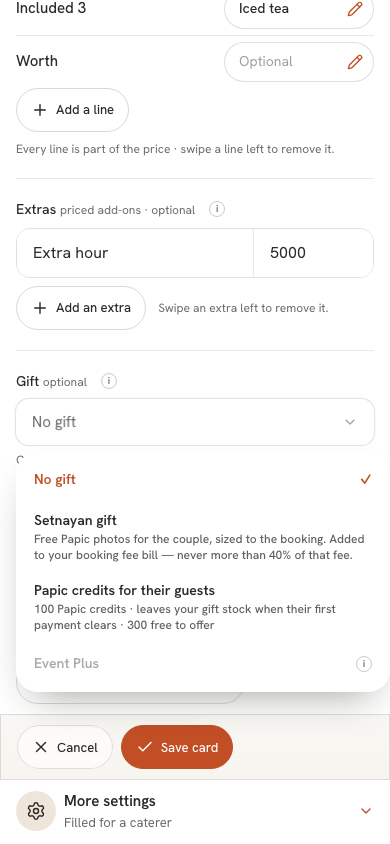
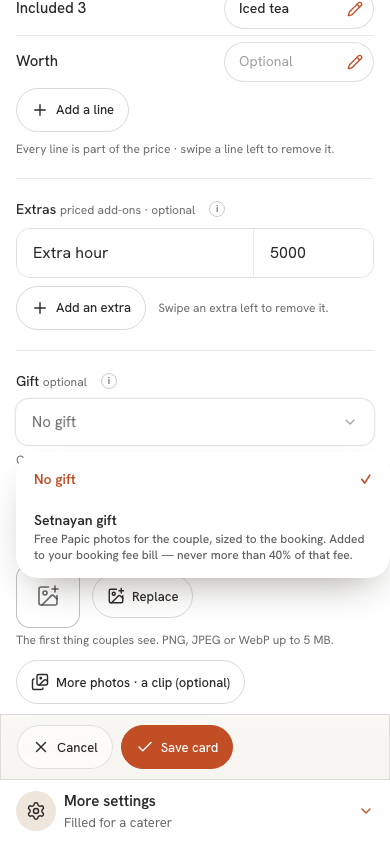
fix(card-maker): keep shop gift packs out of the card's Gift dropdown until their delivery is ruled
A pack picked on a card would save and then reach neither the quote nor any
couple-facing card: a choice that renders as success and does nothing. Until
the owner rules on pack delivery (open on bundle PR #7367 too), one switch,
SHOP_PACK_GIFTS_DELIVER = false in lib/gift-pick.ts:
- the dropdown lists No gift and Setnayan gift only;
- the info tip says nothing about own gifts;
- the save refuses a pack.
The gift_pack_code column, its CHECKs and the db test are unchanged.

Guard: the-card-gift-is-one-dropdown test 7 (packs hidden while false, listed
when true; save refuses a pack). Sabotage: pack loop ignoring the switch -> red.
Proof: gift menu reshot (two options); the pack-picked and pack-on-preview
shots removed.

Changed region(s): [[0.0615, 0.6777, 0.9538, 0.8626]]

diff --git a/apps/web/lib/the-card-gift-is-one-dropdown.test.ts b/apps/web/lib/the-card-gift-is-one-dropdown.test.ts
@@ -15,10 +15,14 @@
  *   4 · the save reads the pack only when the row was drawn (`gift_pack_present`), so a screen without the row can
  *       never clear a card's pack;
  *   5 · the first page's order and that none of its fields sit inside More settings;
- *   6 · the couple's line for a pack carries no count (the card face's rule).
+ *   6 · the couple's line for a pack carries no count (the card face's rule);
+ *   7 · 🚧 `SHOP_PACK_GIFTS_DELIVER` (controller, 7 Nov): while a picked pack would reach no quote and no couple-facing
+ *       card, the dropdown lists NO pack, the ⓘ says nothing about own gifts and the save refuses a pack — and with
+ *       the switch on, the packs are listed again. Tests 1 and 6 ask for the delivering menu explicitly.
  *
  * Sabotage, 2026-11-07: (a) `giftMenu` put Setnayan gift first → test 1 red; (b) the maker's `gift_pack_present`
  * hidden input removed → test 3 red. Both restored green.
+ * Sabotage, 2026-11-07 (gate): the pack loop ignoring `deliver` (`for (const p of packs ?? [])`) → test 7 red.
  */
 import test from 'node:test';
 import assert from 'node:assert/strict';
@@ -31,8 +35,10 @@ import {
   GIFT_SETNAYAN,
   coupleCardPackLine,
   giftColumns,
+  SHOP_PACK_GIFTS_DELIVER,
   giftMenu,
   giftPickOf,
+  giftTip,
 } from '@/lib/gift-pick';
 import type { ShopGiftPack } from '@/lib/shop-gifts';
 
@@ -47,16 +53,16 @@ const PACKS: ShopGiftPack[] = [
 ];
 
 test('1 · the dropdown: No gift · Setnayan gift · the shop’s packs, a short pack listed with "buy first"', () => {
-  const menu = giftMenu(PACKS, { papic: 100, event_plus: 0, event_pro: 0 });
+  const menu = giftMenu(PACKS, { papic: 100, event_plus: 0, event_pro: 0 }, GIFT_NONE, true);
   assert.deepEqual(menu.map((o) => o.key), [GIFT_NONE, GIFT_SETNAYAN, 'PAPIC_GUEST', 'EVENT_PLUS']);
   assert.equal(menu[0]!.label, 'No gift');
   assert.equal(menu[1]!.label, 'Setnayan gift');
   assert.equal(menu[2]!.disabledNote, undefined, 'a pack the stock covers must be pickable');
   assert.equal(menu[3]!.disabledNote, 'Not enough in your stock · buy first');
   // Unreadable stock is said as unreadable, never as empty.
-  for (const o of giftMenu(PACKS, null).slice(2)) assert.equal(o.disabledNote, 'Couldn’t read your gift stock right now');
+  for (const o of giftMenu(PACKS, null, GIFT_NONE, true).slice(2)) assert.equal(o.disabledNote, 'Couldn’t read your gift stock right now');
   // A saved card's own pack stays pickable whatever the stock says — opening it never strands its gift.
-  assert.equal(giftMenu(PACKS, { papic: 0, event_plus: 0, event_pro: 0 }, 'EVENT_PLUS')[3]!.disabledNote, undefined);
+  assert.equal(giftMenu(PACKS, { papic: 0, event_plus: 0, event_pro: 0 }, 'EVENT_PLUS', true)[3]!.disabledNote, undefined);
   // Unread catalogue: only the two answers that need no catalogue.
   assert.deepEqual(giftMenu(null, null).map((o) => o.key), [GIFT_NONE, GIFT_SETNAYAN]);
 });
@@ -112,4 +118,24 @@ test('6 · the couple’s line for a pack names the kind, never a count', () => 
   assert.equal(coupleCardPackLine('EVENT_PLUS', 'Saysay Studio'), 'Gift from Saysay Studio 🎁 · Event Plus');
   assert.ok(!/\d/.test(coupleCardPackLine('PAPIC_GUEST_500', 'Saysay') ?? ''), 'a count reached the card');
   assert.equal(coupleCardPackLine(null, 'Saysay'), null);
+});
+
+test('7 · 🚧 shop packs are not offered while they reach nobody — and are offered once the switch is on', () => {
+  const free = { papic: 1000, event_plus: 5, event_pro: 5 };
+  const keys = (deliver: boolean) => giftMenu(PACKS, free, GIFT_NONE, deliver).map((o) => o.key);
+  // The default follows the switch: hidden while false, listed while true.
+  const def = giftMenu(PACKS, free).map((o) => o.key);
+  if (SHOP_PACK_GIFTS_DELIVER) {
+    assert.deepEqual(def, [GIFT_NONE, GIFT_SETNAYAN, 'PAPIC_GUEST', 'EVENT_PLUS']);
+  } else {
+    assert.deepEqual(def, [GIFT_NONE, GIFT_SETNAYAN], 'a pack is offered that would reach no quote and no couple');
+    assert.equal(giftTip('card').length, 1, 'the ⓘ promises own gifts that are not offered');
+  }
+  assert.deepEqual(keys(false), [GIFT_NONE, GIFT_SETNAYAN]);
+  assert.deepEqual(keys(true), [GIFT_NONE, GIFT_SETNAYAN, 'PAPIC_GUEST', 'EVENT_PLUS']);
+  assert.ok(giftTip('card', true).length > 1);
+  // The save refuses a pack while the switch is off (a crafted post cannot save a gift that reaches nobody).
+  assert.match(read(ACTIONS), /if \(code && !SHOP_PACK_GIFTS_DELIVER\) return back\(/);
+  // Today's value is the ruling-in-waiting: off.
+  assert.equal(SHOP_PACK_GIFTS_DELIVER, false, 'flip only with the delivery built and the owner ruling recorded');
 });

diff --git a/apps/web/lib/gift-pick.ts b/apps/web/lib/gift-pick.ts
@@ -57,18 +57,23 @@ export function giftColumns(gift: GiftPick | null | undefined): GiftColumns | nu
   return shopGiftKindOf(gift) ? { includes_setnayan_gift: false, gift_pack_code: gift } : null;
 }
 
+/** 🚧 Off until the owner rules how a card's own pack reaches the quote and the couple (open, same as bundle PR #7367). */
+export const SHOP_PACK_GIFTS_DELIVER = false;
+
 /** The Setnayan gift's line under the dropdown — the card maker's shipped fold sentence, without the noun. */
 export const SETNAYAN_GIFT_HINT =
   'Free Papic photos for the couple, sized to the booking. Added to your booking fee bill — never more than 40% of that fee.';
 
 /** What the ⓘ beside "Gift" says — the card's shipped words and the shop-gift rulings (DECISION_LOG 2026-11-04 / 05). */
-export function giftTip(host: GiftHost): readonly string[] {
-  return [
+export function giftTip(host: GiftHost, deliver: boolean = SHOP_PACK_GIFTS_DELIVER): readonly string[] {
+  const all = [
     `Setnayan gift — couples who book this get free Papic photos, sized to the booking. It is added to your booking fee bill — never more than 40% of that fee. Your ${host} shows either way.`,
     'Your own gifts — Papic credits, Event Plus or Event Pro from your stock (Shop › Promote › Your gifts · buy first). They leave your stock when the couple’s first payment clears and land on their event.',
     'On one booking your gifts are capped at 40% of its fee; the smallest Papic pack is always allowed.',
     'A second Event Plus on an event that already holds Plus unlocks Event Pro instead.',
   ];
+  // Every line after the first is about the shop's own packs — not said while they are not offered.
+  return deliver ? all : all.slice(0, 1);
 }
 
 /** One choice in the Gift dropdown — the shape `PickMenu` takes (`disabledNote` = listed, not pickable, and why). */
@@ -84,12 +89,14 @@ export function giftMenu(
   packs: readonly ShopGiftPack[] | null,
   free: FreeByKind | null,
   current: GiftPick = GIFT_NONE,
+  deliver: boolean = SHOP_PACK_GIFTS_DELIVER,
 ): GiftOption[] {
   const out: GiftOption[] = [
     { key: GIFT_NONE, label: 'No gift' },
     { key: GIFT_SETNAYAN, label: 'Setnayan gift', hint: SETNAYAN_GIFT_HINT },
   ];
-  for (const p of packs ?? []) {
+  // 🚧 `SHOP_PACK_GIFTS_DELIVER`: no pack row while a picked pack would reach nobody.
+  for (const p of deliver ? (packs ?? []) : []) {
     const have = free ? free[p.kind] : null;
     const enough = have != null && have >= p.credits;
     const off =

diff --git a/apps/web/app/vendor-dashboard/services/actions.ts b/apps/web/app/vendor-dashboard/services/actions.ts
@@ -78,7 +78,7 @@ import {
   toPackageDraft,
 } from '@/lib/service-customization-draft';
 import { savePackage } from '../packages/actions';
-import { giftColumns } from '@/lib/gift-pick';
+import { SHOP_PACK_GIFTS_DELIVER, giftColumns } from '@/lib/gift-pick';
 import { freeByKind, shopGiftKindOf } from '@/lib/shop-gifts';
 import { fetchShopGiftPacks, fetchShopGiftStock } from '@/lib/shop-gifts.server';
 
@@ -1557,6 +1557,8 @@ export async function commitVendorService(formData: FormData) {
     const code = typeof raw === 'string' && raw.length > 0 ? raw : null;
     const cols = giftColumns(code);
     if (code && (!cols || !shopGiftKindOf(code))) return back('That gift can’t be offered on a card.');
+    // 🚧 Not offered yet (see `SHOP_PACK_GIFTS_DELIVER`): a pack would save and reach no quote or couple-facing card.
+    if (code && !SHOP_PACK_GIFTS_DELIVER) return back('Your own gifts can’t be put on a card yet — pick No gift or the Setnayan gift.');
     if (code && fields.includes_setnayan_gift === true) {
       return back('A card gives one gift — pick the Setnayan gift or one of your own, not both.');
     }

diff --git a/changelog.d/claude-card-maker-fix-nov7.md b/changelog.d/claude-card-maker-fix-nov7.md
@@ -5,7 +5,7 @@ Owner, 7 Nov (DECISION_LOG "THE FOUR MAKERS ARE APPROVED — BUILD THEM AS FIXES
 - **One page of fields:** Name (+ Specialties) · Price (basis dropdown + hint · ₱ box · "Price · more") · What's included · Extras · Gift · Photos, in the prototype's order and its one rhythm (label · 48 px box · hint, topics parted by a divider). Price · more, Add-ons, the Setnayan gift and Details moved up from More settings. The rest of More settings (Schedule, Discounts, crew, terms, payment, who it's for, comes with, record, portfolio, live · delete · copy) is shown on the saved card; while a card is made those folds stay mounted but unseen, so every default and copied value still posts.
 - **Pinned row** (the service menu · Preview and ⓘ rounds), **split evenly from 820 up** (fields | "As couples see it"), **thumb row** Cancel (grey) · Create / Save card (terracotta), every button the shipped `ActionButton`; a sheet's closing confirm is the green `ActionButton`.
 - **What's included needs at least one line** — Save says so under the field instead of saving a card that can never be shown.
-- **Gift dropdown** (`app/_components/gift-pick.tsx` + `lib/gift-pick.ts`, shared shape with the bundle maker): No gift · Setnayan gift · the shop's packs, a pack the stock cannot cover listed with "Not enough in your stock · buy first". New column `vendor_services.gift_pack_code` (migration `20271320258754_a_card_carries_a_shop_gift`, two CHECKs: giftable codes only · one gift per card). The maker's "As couples see it" preview shows "Gift from <shop> 🎁 · <kind>" — never a count (the marketplace, shortlist and chat cards are not changed yet).
+- **Gift dropdown** (`app/_components/gift-pick.tsx` + `lib/gift-pick.ts`, shared shape with the bundle maker): No gift · Setnayan gift today. The shop's own packs are built behind `SHOP_PACK_GIFTS_DELIVER = false` (lib/gift-pick.ts): a picked pack would reach neither the quote nor a couple-facing card, and how it is delivered is an open owner call (same as bundle PR #7367) — so the dropdown lists no pack and the save refuses one. With it on, a pack the stock cannot cover is listed with "Not enough in your stock · buy first". New column `vendor_services.gift_pack_code` (migration `20271320258754_a_card_carries_a_shop_gift`, two CHECKs: giftable codes only · one gift per card). The maker's "As couples see it" preview shows "Gift from <shop> 🎁 · <kind>" — never a count (the marketplace, shortlist and chat cards are not changed yet).
 - **The cover is a thumb and a pill** (prototype § 3): a 64 px dashed thumb + "Add a cover", then "Replace" once a file is in — not the big drop box. New opt-in `FileUpload` `thumb={{ add, replace }}` (square, single, not round; a new file replaces the one there). Sibling of open PR #7351's `pills` mode — to fold together once both merge. "Add a line" and "Add an extra" are the shipped `ActionButton` pill (neutral, + icon), not text links.
 - **Rows leave by swipe** — What's included lines and Extras use the shipped `SwipeToDelete` + `pushUndo`, no ✕ on the row.
 
